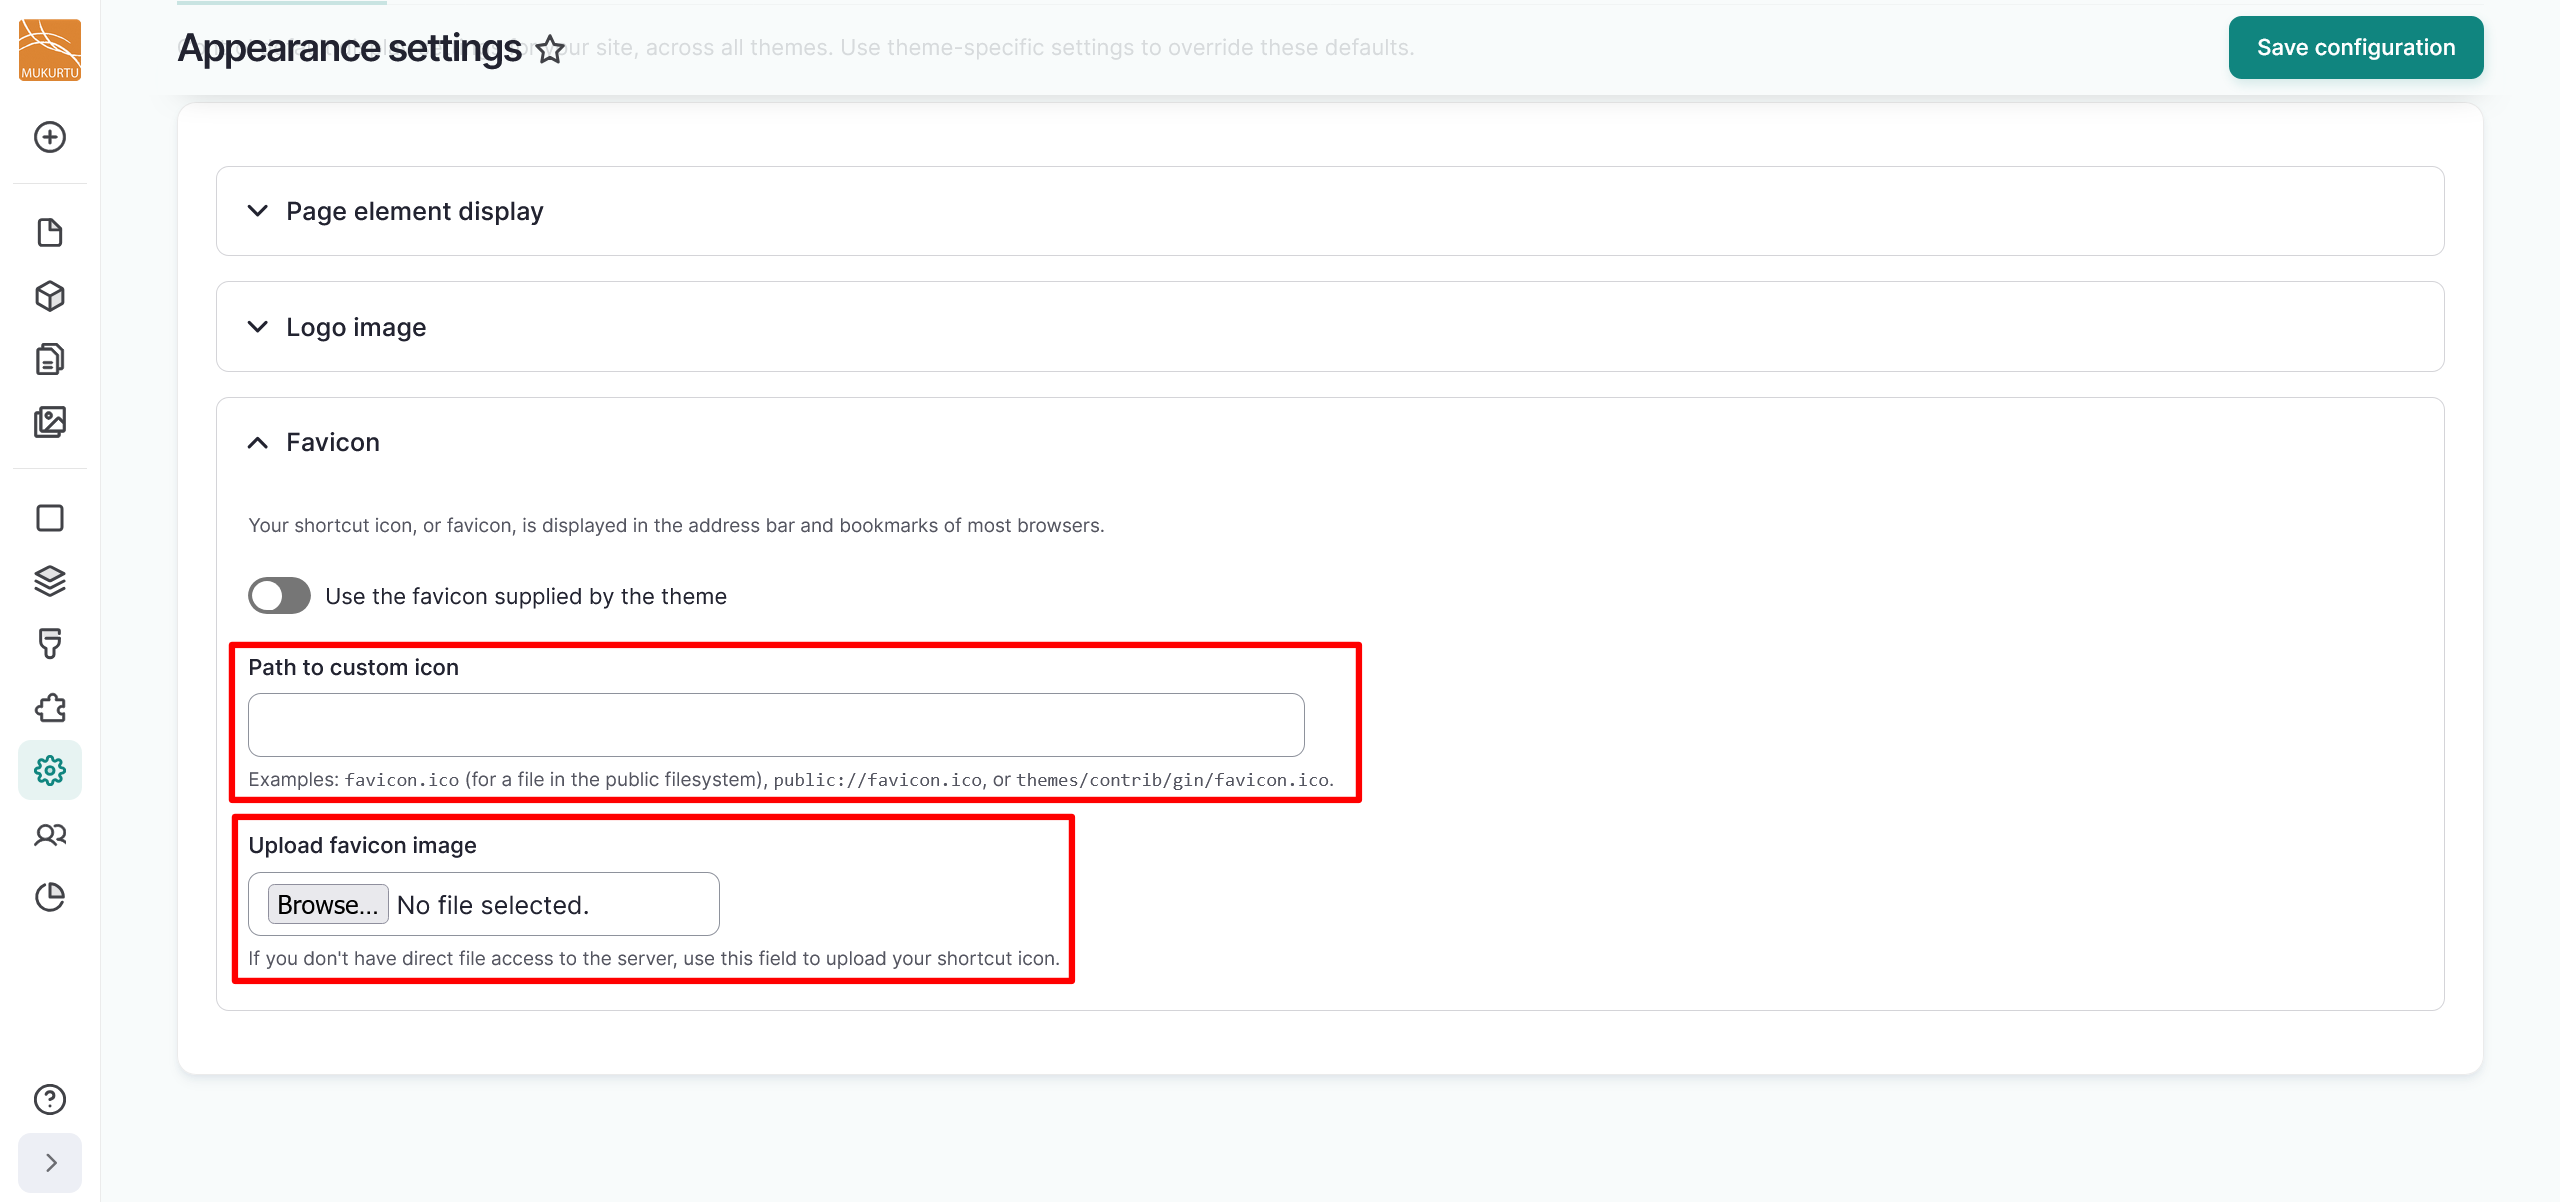
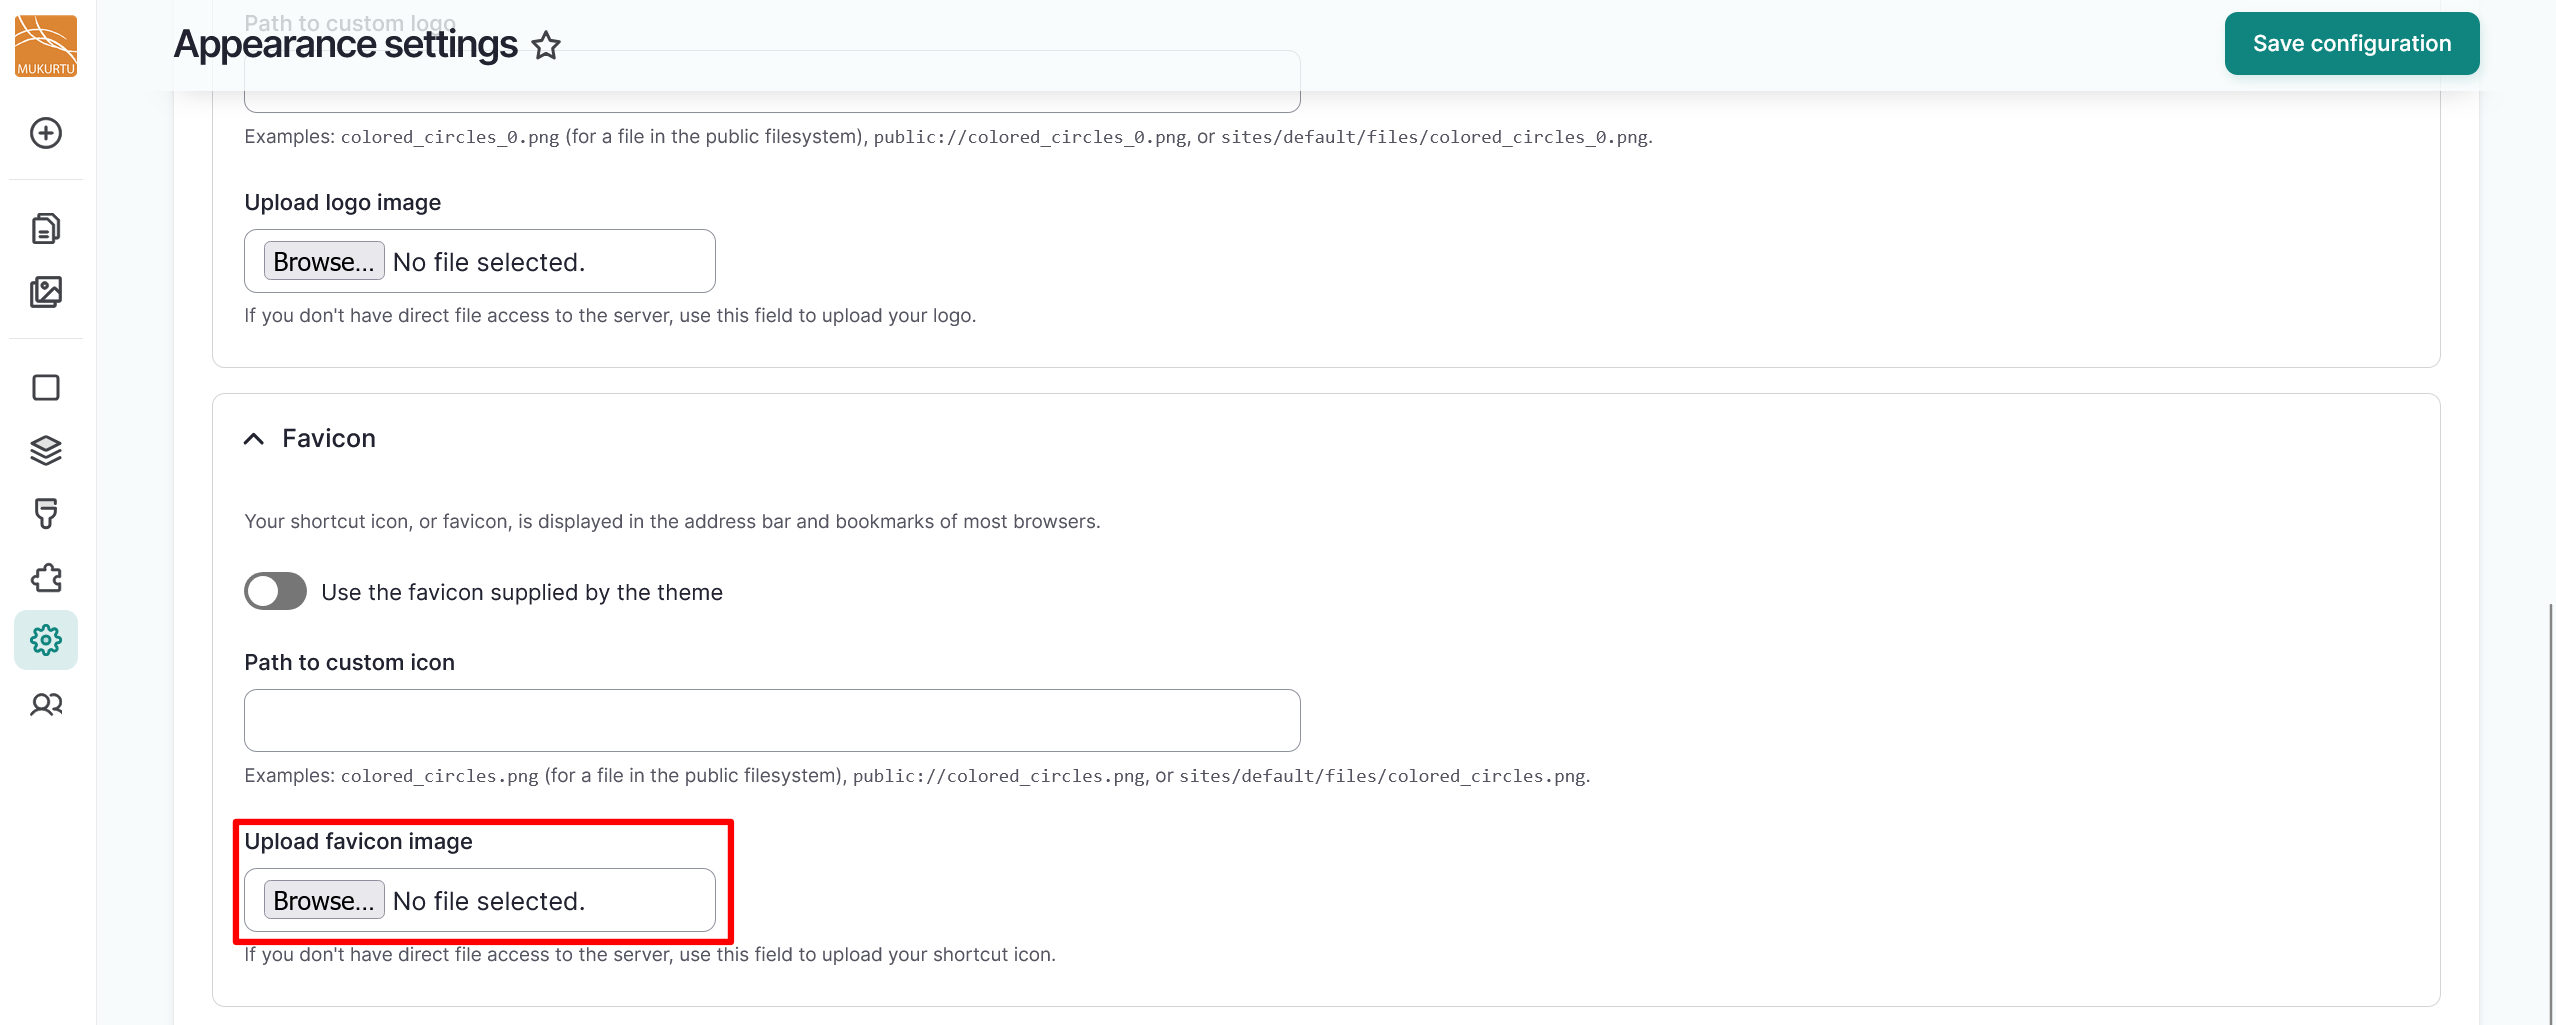
Updated based on PR feedback
Waiting on Dashboard updates in ConfigureNameSloganEmail (Mukurtu manager access) and ConfigureSiteNavigation (new Dashboard link)

diff --git a/docs/look-and-feel/ConfigureLogo.md b/docs/look-and-feel/ConfigureLogo.md
@@ -7,7 +7,7 @@ tags:
 # Configure Logos
 
 !!! roles "User roles"
-    Drupal administrator
+    Drupal administrator, Mukurtu manager
 
 ## Configure your logo
 
@@ -19,7 +19,7 @@ tags:
 
     ![Screenshot of the Logo image section with the slider highlighted.](../_embeds/lookfeel5.png)
 
-3. You may choose to include a path to your custom logo in the *Path to custom logo* field. If you don't have direct file access to the server, you can upload your custom logo image by selecting the "Browse" or "Choose File" button. The text of the button depends on your browser settings.
+3. You can upload your custom logo image by selecting the "Browse" or "Choose File" button. The text of the button depends on your browser settings.
 
     ![Screenshot of the Logo image section with the slider toggled off and the Path to custom logo and Upload logo image fields highlighted.](../_embeds/lookfeel6.png)
 
@@ -37,7 +37,7 @@ Your shortcut icon, or favicon, is displayed in the address bar and bookmarks of
 
     ![Screenshot of the favicon image section with the slider highlighted.](../_embeds/lookfeel7.png)
 
-3. You may choose to include a path to your favicon in the *Path to custom favicon* field. If you don't have direct file access to the server, you can upload your favicon image by selecting the "Browse" or "Choose File" button. The text of the button depends on your browser settings.
+3. You can upload your favicon image by selecting the "Browse" or "Choose File" button. The text of the button depends on your browser settings.
 
     ![Screenshot of the favicon image section with the slider toggled off and the Path to custom favicon and Upload favicon image fields highlighted.](../_embeds/lookfeel8.png)
 

diff --git a/docs/look-and-feel/ConfigureSiteNavigation.md b/docs/look-and-feel/ConfigureSiteNavigation.md
@@ -17,10 +17,6 @@ Navigate to **Main navigation** and select the "Edit menu" button. You can also 
 
 ![Screenshot of the Menus page with the Edit menu button highlighted in the Main Navigation row.](../_embeds/lookfeel11.png)
 
-Optionally, you may choose to change the *Title* or *Administrative summary* fields to better describe your site's navigation menu. 
-
-![Screenshot of the title and administrative summary fields](../_embeds/lookfeel25.png)
-
 Use the **Menu link** menu to reorder your navigation menu, enable or disable menus, edit your navigation menu, or add child menu links.
 
 ![Screenshot of the menu link section of the main navigation page, including the menu links, whether they are enabled, and the dropdown button that allows users to edit, delete, or add child menu links.](../_embeds/lookfeel12.png)

diff --git a/docs/look-and-feel/ConfigureNameSloganEmail.md b/docs/look-and-feel/ConfigureNameSloganEmail.md
@@ -21,7 +21,7 @@ These are all located on the **Basic site settings** page.
 
     - This is a required field.
 
-3. If you wish to include a slogan or short description, enter it in the *Slogan* field. 
+3. If you wish to include a slogan or short description, enter it in the *Slogan* field. The Mukurtu theme does not use a slogan. Use this field only if you are using a theme or other tool that does.
 4. Enter the email address for your site in the *Email address* field. This becomes the From address in automated emails sent during registration and new password requests, as well as other notifications. 
 
     - This is a required field.
